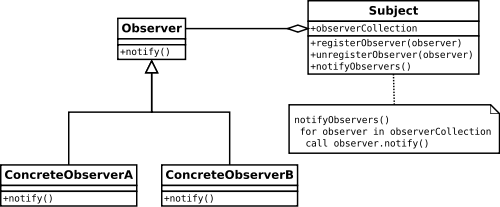
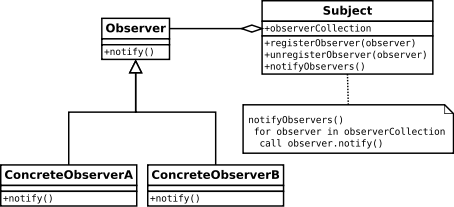
modify observer pattern and dependency graph figures. edit text to fix most comments by Guido Salvaneschi.

diff --git a/Reactive Programming in Distributed Setting.tex b/Reactive Programming in Distributed Setting.tex
@@ -75,9 +75,9 @@
 \maketitle
 
 \begin{abstract}
-Distributed computing is a fast emerging field in the sphere of software technologies. This trend has its roots in the ever-growing range of software applications on the one hand, and the advantages that distributed systems have over centralized computing on the other. However, distributed programming introduces new challenges for the development of robust and performant data-driven applications, such as finding solutions for consistent change propagation between remote hosts and for handling the dynamic connecting and disconnecting of hosts.
+Distributed programming introduces new challenges for the development of robust and performant data-driven applications. This stems from the fact that changes to values in one part of the application have to be correctly propagated not only within the same device, but also between remote hosts. The tasks becomes even more difficult if the program requires handling dynamic connecting and disconnecting of hosts.
 
-This paper will focus on the ways these difficulties can be addressed using reactive programming by examining studies on traditional approaches to distributed programming. The suggestions we have scrutinized include Scala libraries, publish/subscribe middleware and concrete algorithm suggestions like DREAM, ELM and SID-UP.
+Reactive programming has already proven its benefits in local settings\cite{bridging}. This paper will focus on the ways it can be used to address the afore-mentioned difficulties of distributed programming by examining several studies on Scala libraries, publish/subscribe middleware and concrete algorithms like DREAM, a distributed version of ELM, and SID-UP.
 
 \end{abstract}
 
@@ -96,9 +96,10 @@ Distributed Systems, Observer Pattern, Event-Driven Programming, Reactive Progra
 \section{Introduction}
 
 Technology has become a part of our everyday life due to the many improvements it brings to our lives. Applications range from large client-server architectures backing up the work of large corporations, through mobile devices used ubiquitously for tracking and sharing sport and social activities, to pervasive computing implementing monitoring and controlling of the ambient. The numerous usages require more complicated networking and architectures to support them. This is where distributed applications come in handy with their resource sharing capabilities, good cost/performance ratio and fault tolerance.
+
 Despite their many advantages, distributed systems also pose some challenges to developers, the most important of which being the correct synchronization between distributed nodes. Exchanging messages from one host to another and upholding different consistency guarantees in particular become much more difficult with the introduction of distribution. Moreover, the task of handling the communication efficiently in a decentralized and potentially dynamic network calls for a revision of the existing paradigms. 
 
-Various solutions have been proposed in order to establish a good mechanism that deals with the communication reliably. We will discuss and compare some of them in terms of their ease of use and benefits. The focus will be on the possible use of reactive applications, which have already been shown to efficiently address the requirements of passing messages between layers in general software applications \cite{bridging}. They provide the expected responsiveness and fault-tolerance, being able to handle a lot of content and scale without significant difficulties. In the current paper we will examine their possible use in distributed applications and the implications of this approach.
+Several solutions have been proposed in order to establish a mechanism that deals with the communication reliably, allowing the establishment and adherence to guarantees regarding the way the messages are passed. We will discuss and compare some of them in terms of their possible applications in dynamic distributed applications. The focus will be on the possible use of reactive programming. In the current paper we will examine several reactive suggestions to the challenges of distributed computing.
 
 This paper makes the following contributions:
 
@@ -106,10 +107,12 @@ This paper makes the following contributions:
   \item It describes a common organization of a distributed system, such as the publish/subscribe 
   \item It summarizes the main approaches for developing reactive applications in a distributed setting
   \item It outlines the challenges of the development of distributed applications
-  \item Represents a structured analysis of the latest and most exhaustive research papers in the sphere of distributed reactive applications.
+  \item It introduces the main concepts of reactive programming
+  \item Represents a structured analysis of the latest and most exhaustive research papers in the sphere of distributed reactive applications
+  \item It argues that reactive programming can be leveraged to address the needs of distributed applications.
 \end{itemize}
 
-The rest of the paper is structured as follows: Section 2 summarizes the traditional approaches for ensuring the reactivity of a program. It briefly describes the Observer pattern, events and callbacks as means of propagating changes, and the organization of general publish/subscribe systems. It derives the problems connected to the use of each of these approaches and argues the need for a new programming paradigm. Section 3 proposes Reactive programming as an alternative to these approaches and explains the common terms such as dependency graph, glitches, reactive variables. It also introduces the algorithms that will be later compared in terms of the solutions they propose to the common challenges of distributed reactive programming. Section 4 discusses these problems - propagation of changes in the dependency graph of reactive applications, ensuring glitch-freedom and handling dynamic network topologies. In Section 5 we give some overview of Related Work. Section 6 concludes the paper, giving a summary of the present study.
+The rest of the paper is structured as follows: Section 2 summarizes the traditional approaches for ensuring the reactivity of a program. It also describes the organization of general publish/subscribe systems such as JMS. Section 3 proposes Reactive programming as an alternative to these approaches and explains the basics of reactive programming. It also introduces the algorithms that will be later compared in terms of the solutions they propose to the common challenges of distributed reactive programming. Section 4 discusses common problems - propagation of changes in reactive applications, ensuring glitch-freedom and handling dynamic network topologies. In Section 5 we give some overview of Related Work. Section 6 concludes the paper, giving a summary of the present study.
 
 \section{Ways of Ensuring Reactivity of a Program}
 
@@ -119,13 +122,13 @@ The term “reactive” stands for responsive, resilient, elastic message-driven
 
 \begin{figure}
 \centering
-\includegraphics[width=\columnwidth]{o}
+\includegraphics[width=\columnwidth]{observer}
 \caption{Observer Pattern}
 \end{figure}
 %\centerline{}
 
 
-With the use of the Observer pattern \cite{ojpg}, one can successfully complete passing notifications from one part of the program to another. However, the pattern is also highly criticized due to the overhead it creates. It causes inversion of control and can potentially cause memory leaks. In addition, it creates a large amount of boilerplate code that its implementation requires and pollutes the interface of the related classes. The Observer pattern is briefly described by the UML diagram in Figure 1.
+The Observer pattern \cite{ojpg} is commonly used to implement distributed event handling. However, the pattern is also highly criticized due to the overhead it creates in terms of boilerplate code that has to be added to the application. Its implementation also involves pollution of the interface of the classes because of the methods added in order to handle the message passing. It also causes inversion of control and can potentially cause memory leaks. The Observer pattern is briefly described by the UML diagram in Figure 1.
 
 Figure 2 shows an example implementation in Scala that implements the following scenario: let us assume that we have three different variables  \textit{a}, \textit{b}, \textit{c} and we want to define a constraint on \textit{c} to be equal to the sum of the other two variables \textit{a} and \textit{b} at all times.
 
@@ -179,17 +182,17 @@ As can be seen from the code, there is a lot of code dealing with the wiring and
 \subsection{Events, Callbacks and Data Binding}
 
 The most popular alternatives to the Observer pattern in recent years are events and callbacks. 
-Events provide high flexibility, but also have a couple of drawbacks. For example, in the case of multiple handlers of the same event (which is often the case), all subscribers have to listen for the same event. When the subscribers want to implement the same logic at the occurrence of the event, the code that does the specific goal has to be duplicated on every client. This can be considered a violation of the DRY \textit{(Don't repeat yourself)} principle and is bound to cause issues in a big commercial system.
+Events are easier to use in comparison to implementing the Observer pattern, but also have a couple of drawbacks. For example, in the case of multiple handlers of the same event (which is often the case), all subscribers have to listen for the same event. When the subscribers want to implement the same logic at the occurrence of the event, the code that does the specific goal has to be duplicated on every client and can be considered a violation of the DRY \textit{(Don't repeat yourself)} principle. We will see later in the paper how reactive programming avoids this problem.
 
 Furthermore, there is no way to determine in what order the event handlers will be executed and to determine statically the control flow of the application.
 
 The same statement holds true for callbacks - every subscriber would have to contact the host emitting the messages and pass a reference to the callback function. Callbacks also hinder the static reasoning about the behavior of a program because of the inversion of control.
 
-Microsoft's .NET framework offers an interesting and quite useful approach for propagating data changes in the back-end of the program, in the UI, or between the back-end computations and the UI \cite{dp}. They introduce a special type of properties called ``dependency properties'', which can be defined on objects inheriting from DependencyObject. Basically, if you want to track automatically the changes of a property, a common approach would be to implement it as a DependencyProperty of a specific DependencyObject. 
+Microsoft's .NET framework \cite{net} offers an interesting and quite useful approach for propagating data changes in the back-end of the program, in the UI, or between the back-end computations and the UI \cite{dp}. They introduce a special type of properties called ``dependency properties'', which can be defined on objects inheriting from DependencyObject. Basically, if you want to track automatically the changes of a property, a common approach would be to implement it as a DependencyProperty of a specific DependencyObject. 
 
 Each dependency property has to be specially registered using a factory method, so that the framework knows to treat it differently. When this method is invoked, it is passed the following parameters: name of the property, its type, its owner class, default value and a callback that is to be executed when the value of the property changes. Listing 2 shows an implementation of the \textit{c = a + b} example using dependency properties in the C\# programming language. As can be seen in the code listing, we have an object DependencyObjectSum with dependency properties \textit{AProperty},\textit{ BProperty} and \textit{CProperty}, wrapping regular properties \textit{A}, \textit{B} and \textit{C}. When the values of \textit{A} and \textit{B} change, a callback is fired to reevaluate \textit{C}. 
 
-The approach is also widely used with Microsoft's frameworks Windows Presentation Foundation (WPF) and Silvelright. Dependency objects and properties also enable data-binding between controls in the UI and the values in the back-end. For example, we can easily define a page with TextBox controls, which show the values of the \textit{A}, \textit{B} and \textit{C} properties of a DependencyObjectSum object. When the user changes the text in the text boxes which have their Text property data bound to \textit{A} and \textit{B}, the value in the other text box will be automatically reevaluated and changed to the new sum. The code that does that can be seen in Listing 3. (The language that Silverlight and WPF use to define the user interface is XAML - Extensible Application Markup Language)
+The approach is also widely used with Microsoft's frameworks Windows Presentation Foundation (WPF) and Silvelright. Dependency objects and properties also enable data-binding between controls in the UI and the values in the back-end. For example, we can easily define a page with TextBox controls, which show the values of the \textit{A}, \textit{B} and \textit{C} properties of a DependencyObjectSum object. When the user changes the text in the text boxes which have their Text property data bound to \textit{A} and \textit{B}, the value in the other text box will be automatically reevaluated and changed to the new sum. The code that does that can be seen in Listing 3. (The language that Silverlight and WPF use to define the user interface is XAML - Extensible Application Markup Language.)
 
 However, this approach has a couple of setbacks. First, it requires a lot of boilerplate code even in this simple scenario. Second, the wiring requires typing the name of the property as a string, not making use of static type-checking. Thus, a small typo can take hours to debug. Last, dependency objects and properties usually cause a lot of memory consumption overhead, can lead to performance issues and even memory leaks when not handled carefully.
 
@@ -306,7 +309,7 @@ According to the authors of the  papers above, middleware based on publish-subsc
 
 \section{Reactive Programming}
 
-Reactive programming aims to make the problems of communicating information between nodes redundant by introducing a new concept of message propagation. It offers immediate change of defined variables during the execution of the program without explicit need for reassignment of the new value.
+Reactive programming aims to render problems of communicating information between nodes obsolete by introducing a new concept of message propagation. It offers immediate change of defined variables during the execution of the program without explicit need for reassignment of the new value.
 
 Let us refer to the example used in Section 2.2 in order to illustrate one significant feature of reactive programming. We have defined variables \textit{a}, \textit{b} and \textit{c}, where \textit{c}  is dependent on two others variables --  \textit{a} and \textit{b}. If \textit{a} and \textit{b} receive new values, but \textit{c} is reevaluated only with the new value of \textit{a} and with the old value of \textit{b}, or in other words a partial update for \textit{c} has occurred, resulting in a meaningless value of the variable \textit{c}. Variable \textit{c} should reevaluate only after both \textit{a} and \textit{b} have their new values.
 In REScala the example from above could be implemented as in Listing 4.
@@ -332,7 +335,7 @@ The data flow concerns the passage of information in the form of data and messag
 
 \begin{figure}
 \centering
-\includegraphics[width=7cm]{dependencyGraph}
+\includegraphics[width=4cm]{dependencyGraph}
 \caption{Dependency Graph}
 \end{figure}
 
@@ -340,9 +343,9 @@ This \textbf{Dependency Graph} is formally defined as a directed graph \textit{D
 
 In general, the lifecycle of reactive applications is described in terms of update turns.  An \textbf{update turn} starts when a change occurs inside the reactive network of an application and this change has to be passed on to the dependent variables and cause their revaluation. These update turns can be split into the following phases: \textbf{admission phase} and \textbf{propagation phase}. The admission phase is the first one and it is characterized by the fact that new values for some input nodes are assigned. After that the propagation phase starts, during which the new values of the changed nodes are made visible to the variables that use them. Only the nodes that are transitively reachable from the source nodes have to participate in the propagation phase, because only dependent reactive values have the potential to be updated \cite{sidup}. Different solutions have been proposed in order to ensure that the changes will be correctly propagated in the dependency graph with different consistency guarantees.
 
-The main issues with the propagation of changes is determining a way in which all dependent nodes are evaluated with least amount of messages passed and without obtaining spurious values. Such inconsistencies (called glitches) may be obtained as a result of a partial update for example -- when the value of a variable is overwritten without taking into account the new values of all the variables it depends on.
+The main issues with the propagation of changes is determining a way in which all dependent nodes are evaluated with least amount of messages passed and without obtaining spurious values. Such inconsistencies may be obtained as a result of a partial update for example -- when the value of a variable is overwritten without taking into account the new values of all the variables it depends on. The term that is used to denote such invalid states of a variable or state of the programs is \textbf{glitches}.
 
-Glitches are to be avoided, as they represent an invalid state of the program. In a local setting, glitch freedom can be obtained by topologically sorting the variables and updating them in levels. In this way, a variable is only updated after all its dependent variables have changed their values. In our example the variables \textit{a} and \textit{b} can be considered at level 0, while \textit{c} is at level 1. Therefore, \textit{a} and \textit{b} can be potentially evaluated and update at the same time and the evaluation of \textit{c} can occur only after that.
+In a local setting, glitches can be avoided by topologically sorting the variables and updating them in levels. In this way, a variable is only updated after all its dependent variables have changed their values. In our example the variables \textit{a} and \textit{b} can be considered at level 0, while \textit{c} is at level 1. Therefore, \textit{a} and \textit{b} can be potentially evaluated and update at the same time and the evaluation of \textit{c} can occur only after that. In that way \textbf{glitch freedom} can be achieved.
 
 Another thing that reactive applications usually consider is \textbf{dynamic dependencies}. In a reactive program it is possible that at some point reactive variables change the variables on which they depend, as compared to other stages of the application. This must be properly reflected in the dependency graph in order to propagate the changes correctly. Dynamic dependencies provide the following two important features \cite{sidup}:
 
@@ -355,7 +358,7 @@ For instance, if we have \textit{z = if c then x else y, z} will always depend o
 
 \end{itemize}
 
-\textbf{Reactive languages} also support the typical for the imperative style of programming events. For example, in REScala there is built in event notifying when a change to a reactive value has been made. There are also a lot of conversion functions that create signals using the important information carried by events.
+\textbf{Reactive languages} also support the typical for the imperative style of programming events. For example, in REScala \cite{rescala} there is built-in event notifying when a change to a reactive value has been made. There are also a lot of conversion functions that create signals from events.
 
 In a nutshell, reactive programming keeps the expressiveness of imperative languages, but also introduces new easier ways of handling message propagation. In solves the problems connected to the use of the Observer pattern: \textit{verbosity, lack of static reasoning, inversion of control}. It manages the dependencies between values in the language implementation, not in the application logic, thus achieving better separation of concerns. There is also no scattered duplicated code, as is the case when events or callbacks are used and the developer is freed from the need to “manually” update the application layer with the changes arisen elsewhere in the program.
 
@@ -381,9 +384,11 @@ Clients advertise some reactive values and subscribe to changes of other reactiv
 \end{itemize}
 
 \subsection{ELM}
-The ELM algorithm proposed in \cite{elm} suggests a network organization which includes a central coordinator. This component's job is to broadcast every update turn's start to all input nodes. Every node then sends a “change” or “no change” pulse depending on whether it has been changed or not in this update turn. When a node receives signals from all nodes that it has a dependency on in the current turn, it reevaluates its value and sends a signal itself. The evaluation finishes when all nodes send a signal with their state.
+The ELM algorithm proposed in \cite{elm} suggests an algorithm for propagating value changes in a local setting. The authors suggest a network organization which includes a central coordinator. This component's job is to broadcast every update turn's start to all input nodes. Every node then sends a “change” or “no change” pulse depending on whether it has been changed or not in this update turn. When a node receives signals from all nodes that it has a dependency on in the current turn, it reevaluates its value and sends a signal itself. The evaluation finishes when all nodes send a signal with their state.
 
-The algorithm supports pipelining, i.e. the pulses can be propagated in wave fronts, thus enhancing parallelism in the propagation phase. Distributed settings benefit a lot from such an organization in the communication.
+The algorithm supports pipelining, i.e. the pulses can be propagated in wave fronts, thus enhancing parallelism in the propagation phase, from which distributed settings can benefit.
+
+Drechsler et al. \cite{sidup} devise a variation of this algorithm named ELM\textsuperscript{s} which can be used in distributed programming.
 
 \subsection{SID-UP}
 SID-UP \cite{sidup} also uses a central coordinator, which allows only one update turn at a time. However, it does not broadcast the update turn's start as in the ELM algorithm. Instead, the nodes that want to initiate an update contact it in order to obtain permission to start updating a source value. In addition, every node stores information about the source nodes it is transitively connected to and dependent upon.
@@ -395,21 +400,21 @@ Once the propagation phase starts, the nodes that can be potentially updated wai
 This organization allows all dependent nodes to execute on different threads and be governed only by the pulses they receive.
 
 \subsection{AmbientTalk/R}
-AmbientTalk \cite{loosely} is a scripting programming language embedded in Java serving the purposes of distributed programming. There is a bridge between AmbientTalk and Java, ensuring that objects of one language can communicate with objects from the other.
+AmbientTalk \cite{loosely} is an experimental scripting programming language that is designed for the purposes of distributed programming. There is a bridge between AmbientTalk and Java, ensuring that objects of one language can communicate with objects from the other, thus providing good interoperability between the two languages.
 
-AmbientTalks is a strictly event-driven programming language. It supports only event loop concurrency and all concurrent activities are represented as events, handled sequentially by an event loop thread. The distributed objects communicate by passing asynchronous messages.
+AmbientTalks is an event-driven programming language that supports only event loop concurrency. All concurrent activities are represented as events, handled sequentially by an event loop thread. The distributed objects communicate by passing asynchronous messages.
 
 AmbientTalk/R is a reactive extension of AmbientTalk that introduces support for reactive programming. Reactive variables can be defined using the makeReactive method on regular objects. The implementation defines two types of methods – Accessor and Mutator methods. The latter are required to be annotated using a special syntax which ensures that the system must take special care to avoid glitches after the method is executed.
 
 \section{Problems and Solutions Connected to the Distributed Environment}
-Each of the presented solutions addresses in one way or another the common problems of developing reactive applications in a distributed setting. The major concern is ensuring correct change propagation of the variables taking into account the dependencies between the variables. Another addressed matter is the way these suggestions can handle dynamic changes in the network, which is a frequently observed scenario with distributed environments.
+Each of the presented solutions addresses the common problems of developing reactive applications in a distributed setting. The major concern is ensuring correct change propagation of the variables taking into account the dependencies between the variables. Another addressed matter is the way these suggestions can handle dynamic changes in the network, which is a frequently observed scenario with distributed environments.
 
-\subsection{Change Propagation and Glitches}
+\subsection{Change Propagation Guarantees}
 \subsubsection{Scala.React and Scala.Rx}
 As Scala.React and Scala.Rx count on topological sorting of the nodes, there must be a centralized coordinator that keeps track of the whole network and manages the communication. In a distributed setting, such a solution is not very practical, as it yields unbounded one-to-many communication. This would not only increase the network traffic, but also render impossible any attempts on performing the computations in parallel. Therefore, in its pure form it is not applicable in a distributed environment.
 
 \subsubsection{Publish/Subscribe Systems}
-The authors of \cite{totalorder} propose a different classification of glitch freedom. Provided that Dest(m) is the set of subscribers that message m should be delivered to, the following types of total orders are defined:
+The authors of \cite{totalorder} propose a different classification of change propagation guarantees. Provided that Dest(m) is the set of subscribers that message m should be delivered to, the following types of total orders are defined:
 
 \begin{itemize} \itemsep1pt \parskip0pt \parsep0pt
   \item \textbf{Per-Publisher Total Order}: For any two messages m and m' and any two processes p and q, where {p, q} $\in$ Dest(m) $\cap$ Dest(m'). If sender(m) = sender(m'), then p delivers m before m' if and only if q delivers m before m'.
@@ -456,8 +461,8 @@ In order to achieve that guarantee, each broker receives the expression for ever
 DREAM implements atomic semantics using a Ticket Granting Server. When a broker receives a notification for a change in a variable, the broker contacts the TGS for all the leaves in the dependency graph that are dependent on that change. TGS returns them to the broker and observes if the broker sends the notifications to all of them in the correct order. When TGS receives acknowledgments for every notification it continues with the next request. This type of locking mechanism ascertains that an update request from only one broker can be processed at a time.
 
 \end{enumerate}
-\subsubsection{ELM}
-ELM \cite{elm} ensures that glitches are avoided by allowing only one update to be triggered at a time. In addition, it relies on messages being passed from every progenitor node to its dependencies, regardless of the fact whether their values have been changed. As every node waits for a pulse from all its dependencies, a partial update cannot occur.
+\subsubsection{ELM\textsuperscript{s}}
+ELM \cite{elm} ensures that glitches are avoided by allowing only one update to be triggered at a time and having every node wait for the incoming dependencies. Messages being passed from every progenitor node to its dependencies, regardless of the fact whether their values have been changed. As every node waits for a pulse from all its dependencies, a partial update cannot occur.
 
 \subsubsection{SID-UP}
 SID-UP \cite{sidup} adopts a similar approach to ELM. However, instead of the push-based communication in the admission phase, it uses pull-based requests to the centralized coordinator, thus avoiding one-to-many unbounded communication. In addition, it requires passing messages only from nodes involved in the update. This is made possible by the fact that every node is aware of the dependencies it has and the pulse carries information of the nodes being updated. In that way, unaffected hosts can be exempt from the message passing, which has the potential to save a lot of network traffic.
@@ -467,14 +472,14 @@ SID-UP \cite{sidup} adopts a similar approach to ELM. However, instead of the pu
 The different authors suggest different approaches for handling dynamic network topologies.
 
 \subsubsection{Pub/Sub}
-The Publish/Subscribe paradigm is developed specifically to implement loose coupling between message providers and consumers. Therefore, it provides good support for dynamic network topology. The authors of \cite{totalorder} specify two reliability guarantees:
+The Publish/Subscribe paradigm is developed specifically to implement loose coupling between message providers and consumers. Therefore, it provides good support for dynamic network topology. The authors Zhang et al. \cite{totalorder} specify two reliability guarantees:
 
 \begin{enumerate}
   \item \textbf{Liveness}: If a message m is sent by a process p to its destination group Dest(m), then all processes in Dest(m) will eventually deliver m.
   \item \textbf{Safety}: If messages m and n are delivered to both processes p and q, then m and n are delivered to both p and q in the appropriate order.
 \end{enumerate}
 
-They prove that it is impossible to withhold both guarantees provided that a failure occurs. A total ordering semantics is classified as "weak" if it ensures safety, but not liveness. They focus on safety, thus devising their algorithm in a way that it implements weak total ordering semantics. However, they also outline an approach that can be followed to implement liveness instead.
+The paper proves that it is impossible to withhold both guarantees provided that a failure occurs. A total ordering semantics is classified as "weak" if it ensures safety, but not liveness. The focus of the study is on safety, thus devising their algorithm in a way that it implements weak total ordering semantics. However, the authors also outline an approach that can be followed to implement liveness instead.
 
 \subsubsection{Ambient References and Behaviors}
 AmbientTalk/R proposes a new construct that handles the network changes. As the paper targets mobile ad-hoc networks, it does not rely on the standard architecture of Pub/Sub systems, involving a broker mediator. Instead, they define “ambient references” -- an abstraction over the appearing and disappearing services in the network. Basically, these ambient references represent a collection of nearby services of the same type. They are constantly kept up-to-date by the ambient reference itself using autonomous UDP queries.
@@ -506,7 +511,7 @@ As already described, AmbientTalk/R is a reactive programming solution for Java.
 Most if not all of these libraries include consistent change propagation using  stratification of the dependency graph in the local setting. However, some of the frameworks are not suitable for use in a distributed environment (e.g. because the language they target cannot be used both on the server and the client), or do not provide any glitch guarantees in that case. 
 
 \section{Conclusions}
-In this paper we have tried to prove that reactive applications can be very useful in distributed programming. First, we have started our work by showing the drawbacks that the traditional ways of implementing reactivity have. We have also described the conventional publish/subscribe system organization. Second, we have introduced the reactive programming paradigm and its most important concept.
+In this paper we have shown that reactive applications can be very useful in distributed programming. First, we have started our work by showing the drawbacks that the traditional ways of implementing reactivity have. We have also described the conventional publish/subscribe system organization. Second, we have introduced the reactive programming paradigm and its most important concept.
 
 After we have gathered enough basis knowledge for reactive programming in a distributed setting we compared existing approaches, such as Scala.React, Scala.Rx, ELM, SID-UP, AmbientTalk/R and DREAM. The criteria that we have chosen when conducting the comparison between the different algorithms were the way the systems ensure glitch freedom and achieving satisfying reactivity in the context of joining and leaving hosts. Our study finds Distributed Reactive Programming Middleware (DREAM) and Source Identifier Update Propagation Algorithm (SID-UP) to be the most  thorough and complete papers, shaping out the future path of reactive distributed programming.
 
@@ -577,6 +582,10 @@ This paper has been written for the Seminar Implementation of Modern Programming
 \bibitem{pubsuburl}{\url{http://en.wikipedia.org/wiki/Publish%E2%80%93subscribe_pattern}}
 
 \bibitem{dp}{\url{http://msdn.microsoft.com/en-us/library/ms752914%28v=vs.110%29.aspx}}
+
+\bibitem{net}{\url{http://www.microsoft.com/net}}
+
+\bibitem{rescala}{\url{http://www.guidosalvaneschi.com/rescala/main/index.html}}
 
 
 \end{thebibliography}
